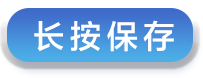
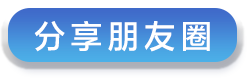
save

diff --git a/dist/index.html b/dist/index.html
@@ -103,12 +103,12 @@
     <!-- 页面[page4]-->
     <div class="page4 page" template="page4" style="display: none;">
       <div class="so so-0">
-        <img class="so so-1" src="./static/resource/6385.png">
+        <img class="so so-1" src="./static/resource/6385.png" o-tap="showShare">
         <img class="so so-2" src="./static/resource/6384.png" o-tap="window.location.replace('')">
         <img class="so so-3" src="./static/resource/6386.png">
         <img class="lave" src="./static/resource/lave1.png">
         <div class="code">89分</div><canvas id="canvas" width="750" height="1508"></canvas>
-        <img class="show">
+        <img class="show" o-tap="hideShare()">
       </div>
     </div>
   </div>
@@ -421,7 +421,7 @@
               width: 734,
               height: 1145,
               // origin: { x: "center", y: "center" },
-              image: "./static/resource/6386.png"
+              image: "./static/resource/share.png"
             }));
             canvas.addChild(canvas.display.image({
               x: 60,
@@ -453,6 +453,17 @@
               _this5.query('.show').src = canvas.canvasElement.toDataURL("image/png");
             }, 500);
           }, 1000);
+        },
+        "showShare": function showShare() {
+          this.query('.show').style.left = '0';
+          this.query('.show').style.zIndex = 999;
+          setTimeout(function() {
+            owo.tool.toast('长按保存图片分享');
+          }, 800);
+        },
+        "hideShare": function hideShare() {
+          this.query('.show').style.left = '750px';
+          this.query('.show').style.zIndex = 1;
         }
       },
       "music": {
@@ -494,6 +505,7 @@
   <script src="./static/js/main.js" type="text/javascript" charset="UTF-8"></script>
   <script src="./static/js/ocanvas-2.10.0.min.js" type="text/javascript" charset="UTF-8"></script>
 
+  <script src="./static/js/toast.js" type="text/javascript" charset="UTF-8"></script>
 </body>
 
 </html>

diff --git a/dist/static/js/toast.js b/dist/static/js/toast.js
@@ -1,0 +1,31 @@
+/**
+ * 显示toast提示 不支持ie8
+ * @param  {number} text       显示的文字
+ * @param  {number} fontSize   字体大小
+ * @param  {number} time       显示时长
+ * @param  {number} container  显示容器
+ */
+
+owo.tool.toast = function (text, config) {
+  if (!config) config = {}
+  time = config.time || 2000
+  fontSize = config.fontSize || 14
+  container = config.container || document.body
+  if (window.owo.state.toastClock) {
+    clearTimeout(window.owo.state.toastClock)
+    hideToast()
+  }
+  var toast = document.createElement("div")
+  toast.setAttribute("id", "toast")
+  toast.setAttribute("class", "toast")
+  // 设置样式
+  toast.style.cssText = "position:fixed;z-index:999;background-color:rgba(0, 0, 0, 0.8);bottom:9%;border-radius:" + parseInt(fontSize / 3) + "px;left:50%;transform: translateX(-50%) translate3d(0, 0, 0);margin:0 auto;text-align:center;color:white;max-width:60%;padding:" + parseInt(fontSize / 2) + "px 10px;overflow:hidden;text-overflow:ellipsis;white-space:nowrap;font-size:" + fontSize + 'px;'
+
+  toast.innerHTML = text
+  container.appendChild(toast)
+  function hideToast() {
+    document.getElementById('toast').outerHTML = ''
+    window.owo.state.toastClock = null
+  }
+  window.owo.state.toastClock = setTimeout(hideToast, time)
+}

diff --git a/owo_modules/toast.js b/owo_modules/toast.js
@@ -1,0 +1,31 @@
+/**
+ * 显示toast提示 不支持ie8
+ * @param  {number} text       显示的文字
+ * @param  {number} fontSize   字体大小
+ * @param  {number} time       显示时长
+ * @param  {number} container  显示容器
+ */
+
+owo.tool.toast = function (text, config) {
+  if (!config) config = {}
+  time = config.time || 2000
+  fontSize = config.fontSize || 14
+  container = config.container || document.body
+  if (window.owo.state.toastClock) {
+    clearTimeout(window.owo.state.toastClock)
+    hideToast()
+  }
+  var toast = document.createElement("div")
+  toast.setAttribute("id", "toast")
+  toast.setAttribute("class", "toast")
+  // 设置样式
+  toast.style.cssText = "position:fixed;z-index:999;background-color:rgba(0, 0, 0, 0.8);bottom:9%;border-radius:" + parseInt(fontSize / 3) + "px;left:50%;transform: translateX(-50%) translate3d(0, 0, 0);margin:0 auto;text-align:center;color:white;max-width:60%;padding:" + parseInt(fontSize / 2) + "px 10px;overflow:hidden;text-overflow:ellipsis;white-space:nowrap;font-size:" + fontSize + 'px;'
+
+  toast.innerHTML = text
+  container.appendChild(toast)
+  function hideToast() {
+    document.getElementById('toast').outerHTML = ''
+    window.owo.state.toastClock = null
+  }
+  window.owo.state.toastClock = setTimeout(hideToast, time)
+}

diff --git a/dist/static/css/owo.core.css b/dist/static/css/owo.core.css
@@ -646,13 +646,13 @@ li {
 .page4 .so-1 {
   left: 407px;
   top: 1233px;
-  z-index: -1;
+  z-index: 99;
 }
 
 .page4 .so-2 {
   left: 138px;
   top: 1233px;
-  z-index: 12;
+  z-index: 99;
 }
 
 .page4 .so-3 {
@@ -698,10 +698,9 @@ li {
   width: 750px;
   height: 1508px;
   position: absolute;
-  left: 0;
+  left: 750px;
   top: 0;
-  z-index: 9;
-  opacity: 0;
+  transition: left 0.5s;
 }
 .music-menu {
   position: absolute;

diff --git a/dist/static/js/owo.core.js b/dist/static/js/owo.core.js
@@ -1,4 +1,4 @@
-// Mon Jan 04 2021 14:59:26 GMT+0800 (GMT+08:00)
+// Thu Jan 07 2021 16:57:11 GMT+0800 (GMT+08:00)
 var owo = {tool: {},state: {},event: {}};
 /* 方法合集 */
 var _owo = {
